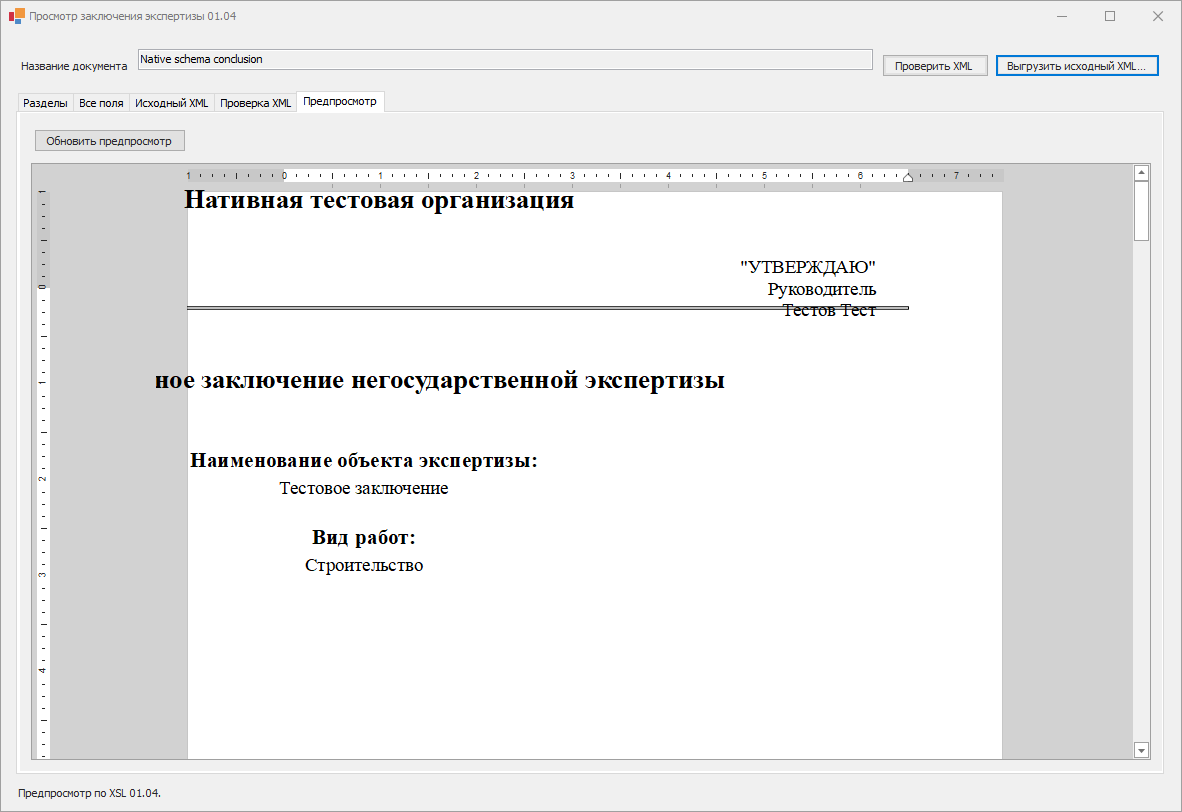
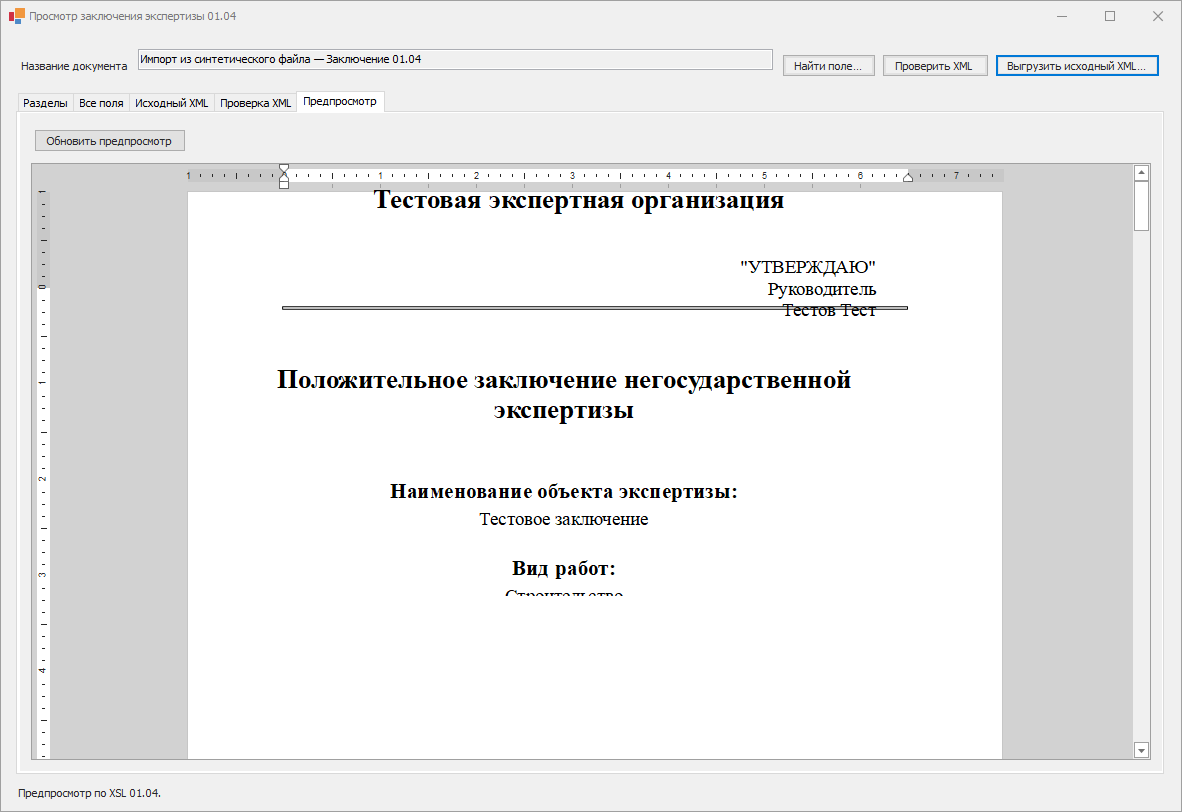
Fit official XSL title pages in the WinForms preview

diff --git a/schema_engine/preview.py b/schema_engine/preview.py
@@ -13,6 +13,10 @@ PREVIEW_POLICY = (
     '<meta http-equiv="Content-Security-Policy" content="default-src \'none\'; '
     'style-src \'unsafe-inline\'; img-src data:; form-action \'none\'; base-uri \'none\'">'
 )
+POSITIONED_WRAPPERS = {
+    'width: 800px; position: relative; left: 50%; margin-left: -400px;',
+    'width: 800px; position: absolute; left: 50%; margin-left: -400px;',
+}
 
 
 @lru_cache(maxsize=None)
@@ -22,7 +26,7 @@ def _stylesheet(family, version):
     return etree.XSLT(etree.parse(str(source), parser), access_control=etree.XSLTAccessControl.DENY_ALL)
 
 
-def render_preview(xml):
+def render_preview(xml, *, rich_edit=False):
     try:
         root = parse_document(xml)
     except ET.ParseError as error:
@@ -36,7 +40,15 @@ def render_preview(xml):
         # Allow a base64 image to exceed libxml2's default text-node limit.
         parser = etree.XMLParser(huge_tree=True, resolve_entities=False, no_network=True, load_dtd=False)
         document = etree.fromstring(ET.tostring(root, encoding='utf-8'), parser)
-        result = str(_stylesheet(family, version)(document))
+        result = _stylesheet(family, version)(document)
+        if rich_edit:
+            # RichEdit reads the negative margin but ignores the CSS positioning that offsets it.
+            for wrapper in result.xpath('/html/body/div[@style]'):
+                if wrapper.get('style') in POSITIONED_WRAPPERS:
+                    del wrapper.attrib['style']
+                    # The HTML title frame is drawn across individual paragraphs by RichEdit.
+                    for frame in wrapper.xpath('./div[@class="frame"]'):
+                        del frame.attrib['class']
     except etree.LxmlError as error:
         raise ValueError('Не удалось сформировать предпросмотр документа по XSL.') from error
-    return result.replace('<head>', '<head>' + PREVIEW_POLICY, 1)
+    return str(result).replace('<head>', '<head>' + PREVIEW_POLICY, 1)

diff --git a/schema_engine/tests/test_form_diagnostics.py b/schema_engine/tests/test_form_diagnostics.py
@@ -50,6 +50,25 @@ class FormDiagnosticsTests(unittest.TestCase):
                 self.assertTrue(any(error['path'] == '/ExplanatoryNote/ExplanatoryNoteYear'
                                     and message in error['message'] for error in errors), errors)
 
+    def test_desktop_preview_removes_the_negative_margin_only_from_the_generated_wrapper(self):
+        for name, value in (('conclusion-01-04.xml', 'Проверка сдвига'),
+                            ('explanatorynote-01-07.xml', 'Проверка полей')):
+            with self.subTest(name=name):
+                root = ET.parse(FIXTURES / name).getroot()
+                if root.tag == 'Conclusion':
+                    root.find('ExaminationObject/Name').text = value
+                else:
+                    root.find('NonIndustrialObject/Name').text = value
+                xml = ET.tostring(root, encoding='unicode')
+                original = render_preview(xml)
+                desktop = render_preview(xml, rich_edit=True)
+                self.assertIn('margin-left: -400px', original)
+                self.assertNotIn('margin-left: -400px', desktop)
+                self.assertIn(value, desktop)
+                if root.tag == 'ExplanatoryNote':
+                    self.assertIn('<div class="frame">', original)
+                    self.assertNotIn('<div class="frame">', desktop)
+
     def test_missing_snils_points_to_the_required_field_before_expert_type(self):
         root = ET.parse(FIXTURES / 'conclusion-01-04.xml').getroot()
         expert = root.find('Experts/Expert')

diff --git a/schema_engine/stdio.py b/schema_engine/stdio.py
@@ -34,7 +34,7 @@ def dispatch(request):
             return migrate_xml(xml, request.get('targetVersion'))
         if operation == 'normalize-legacy-conclusion':
             return {'xml': normalize_legacy_conclusion(xml)}
-        return {'html': render_preview(xml)}
+        return {'html': render_preview(xml, rich_edit=request.get('layout') == 'rich-edit')}
     raise ValueError('Неизвестная операция проверки XML.')
 
 

diff --git a/ProjectDocumentation.NET/Services/ConclusionSchemaService.cs b/ProjectDocumentation.NET/Services/ConclusionSchemaService.cs
@@ -43,7 +43,7 @@ namespace ProjectDocumentation.NET.Services
 
         public async Task<string> PreviewAsync(string xml)
         {
-            var preview = await RequestAsync<JObject>("preview", new JObject { ["xml"] = xml });
+            var preview = await RequestAsync<JObject>("preview", new JObject { ["xml"] = xml, ["layout"] = "rich-edit" });
             return preview.Value<string>("html");
         }
 

diff --git a/docs/user-guide.md b/docs/user-guide.md
@@ -63,7 +63,7 @@
 3. Во вкладке «Все поля» разверните нужный элемент в дереве XML. Справа видны значение, атрибуты и доступные дочерние поля. Чтобы создать повторяемый элемент, выделите родителя, выберите дочернее поле и нажмите «Добавить выбранное поле». При необходимости измените порядок записей кнопками «Вверх» и «Вниз».
 4. Для редактирования текста откройте «Исходный XML». Нажмите «Применить XML», чтобы перенести изменения в форму. Кнопка «Вернуть текущий XML» восстанавливает текст из формы. Пока текст меняется, завершите это действие перед переходом к форме или предпросмотру.
 5. Нажмите «Проверить XML». Выберите замечание и нажмите «К полю», Enter или дважды щёлкните строку. Исправьте поле либо добавьте блок, на который указывает сообщение. После правок повторите проверку.
-6. Откройте «Предпросмотр» и проверьте читаемое представление. «Обновить предпросмотр» повторно построит его по XSL.
+6. Откройте «Предпросмотр» и проверьте читаемое представление. «Обновить предпросмотр» повторно построит его по XSL. WinForms подстраивает титульный лист под компонент просмотра. Для сверки оформления по исходной разметке используйте предпросмотр в веб-редакторе или откройте выгруженный XML с комплектным XSL.
 7. Нажмите «Сохранить», чтобы записать проверенный документ в SQLite. Если работу нужно прервать до заполнения обязательных полей, используйте «Сохранить черновик XML…».
 
 Обе вкладки формы работают с одним XML. В «Разделах» удобно последовательно заполнить реквизиты и блоки, во «Все поля» удобно сверить точное XML-имя, атрибут или повтор.

diff --git a/docs/screenshots.md b/docs/screenshots.md
@@ -18,6 +18,7 @@
 |---|---|
 | Классическая форма заключения 01.03 | [Открыть](screenshots/classic-conclusion.png) |
 | Краткий просмотр заключения 01.03 | [Открыть](screenshots/classic-conclusion-view.png) |
+| Полный предпросмотр заключения 01.03 по XSL | [Открыть](screenshots/classic-conclusion-xsl.png) |
 | I. Общие положения и сведения о заключении | [Открыть](screenshots/classic-conclusion-section-1.png) |
 | I. Общая информация | [Открыть](screenshots/classic-conclusion-general-9.png) |
 | I. Экспертная организация и утверждающее лицо | [Открыть](screenshots/classic-conclusion-general-10.png) |
